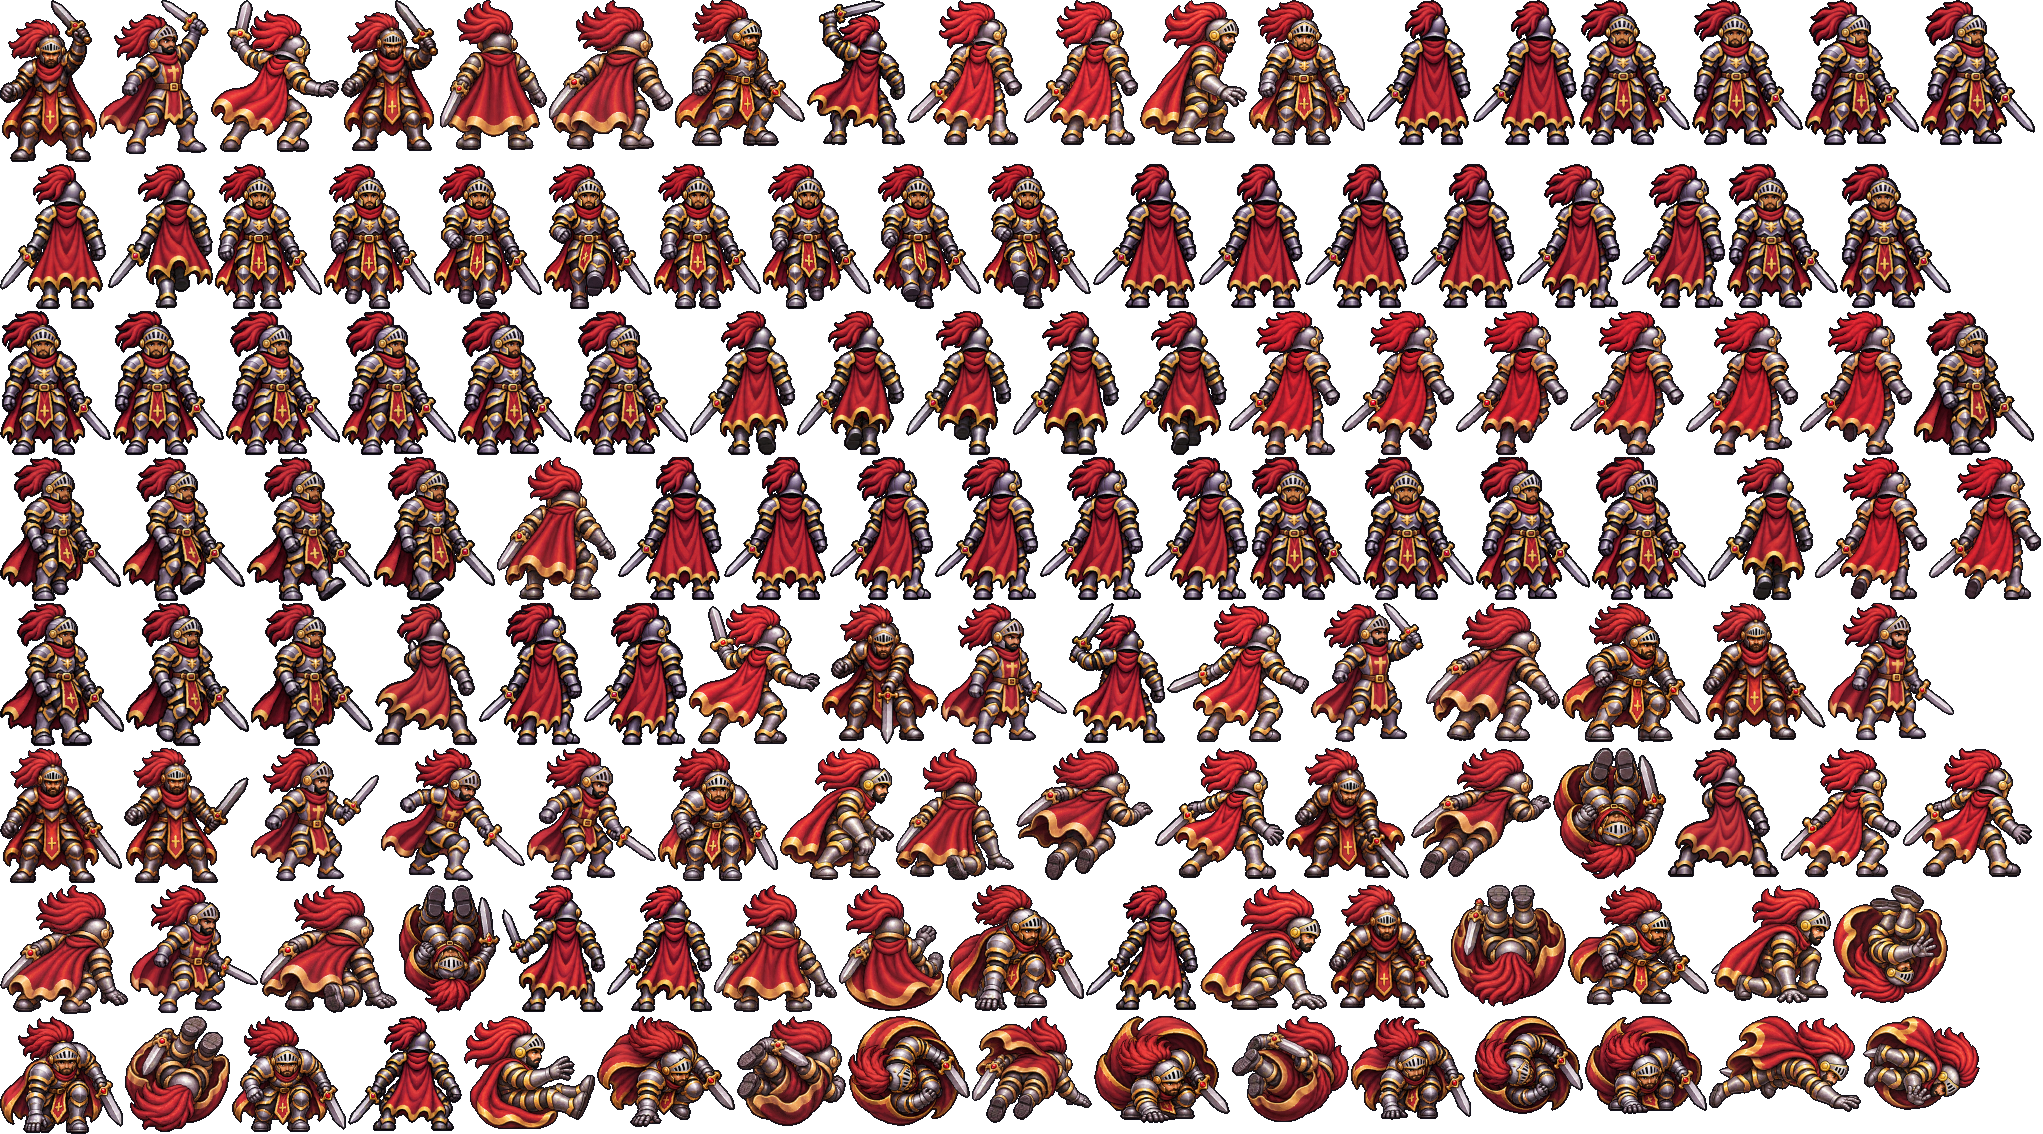
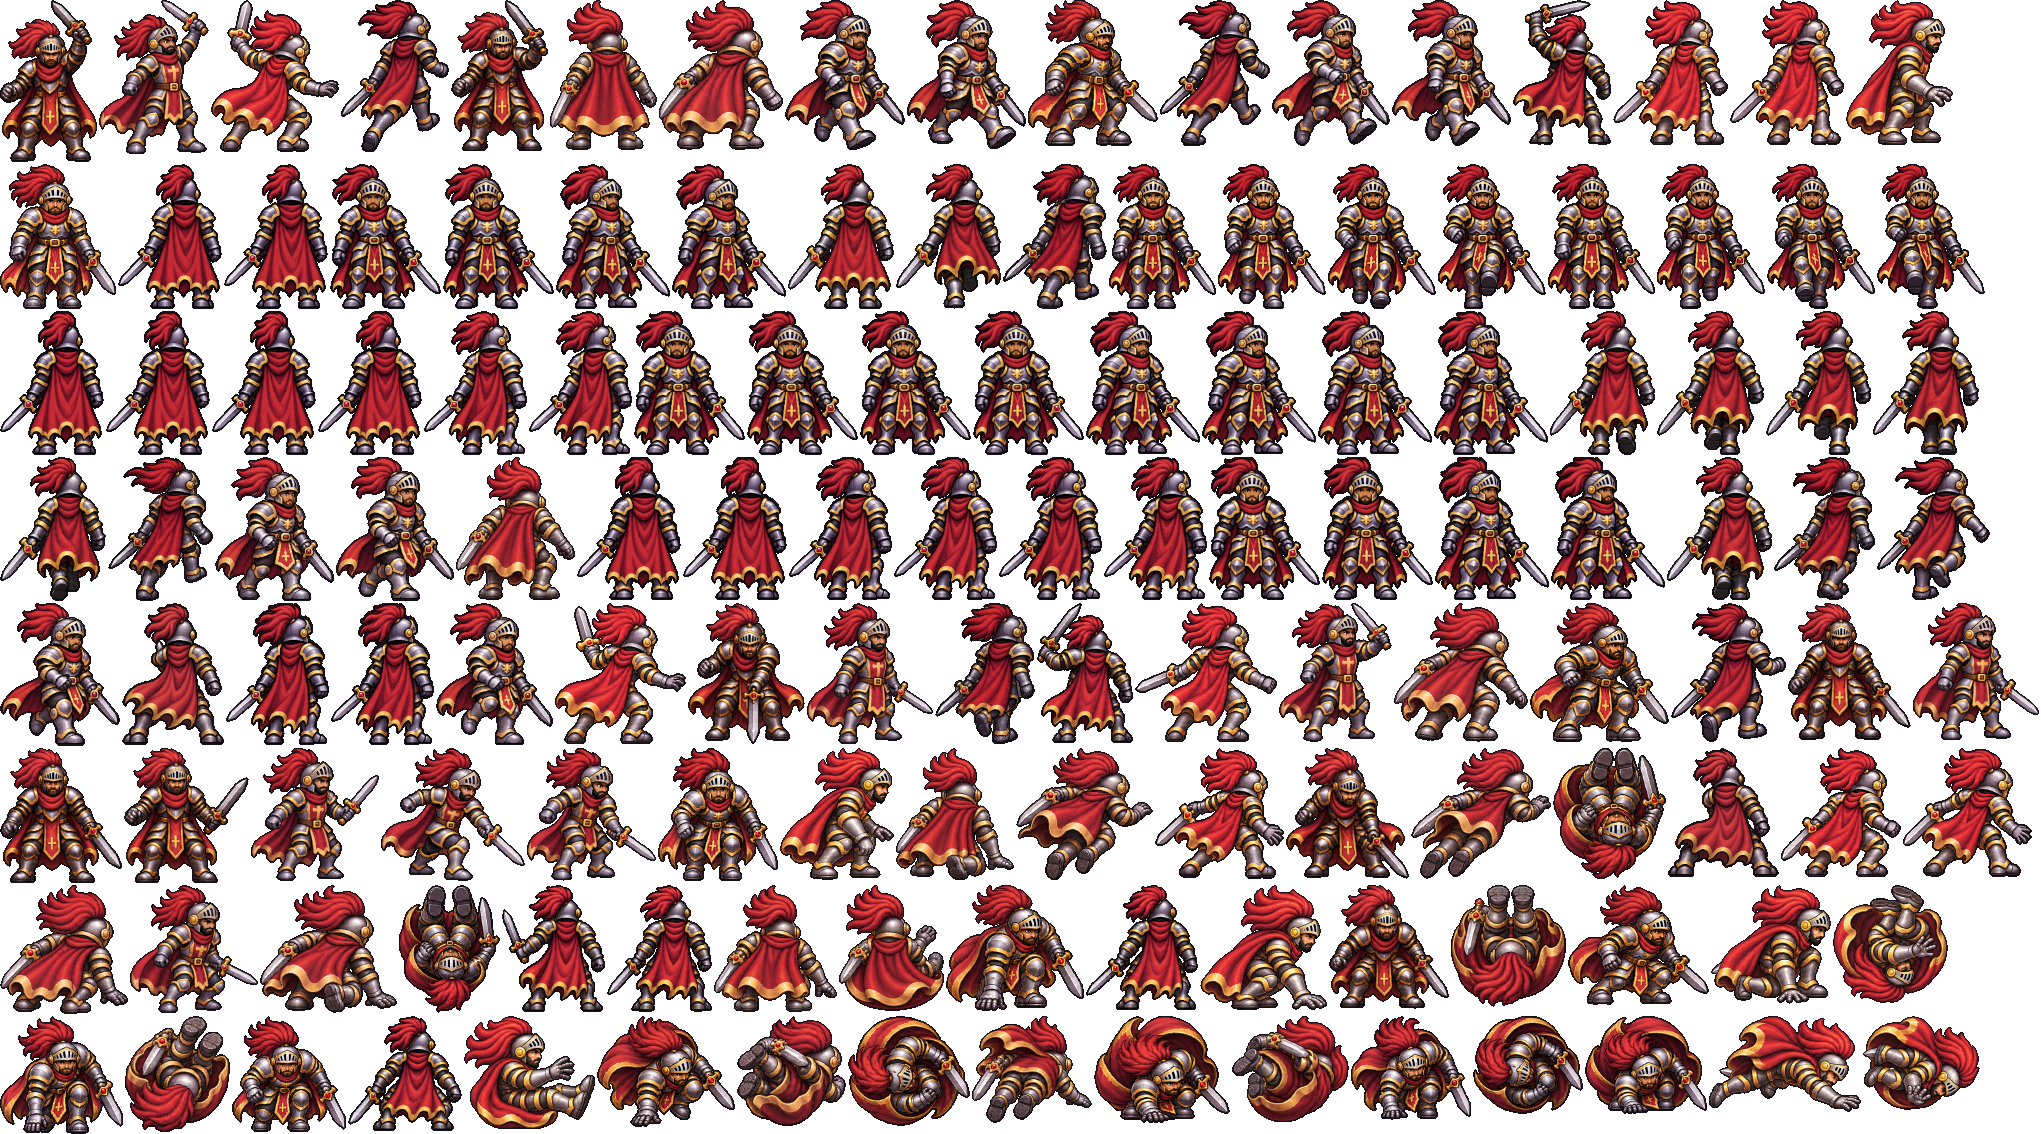
Demo 0.1.6: heroes walk properly on diagonals
Claude-Session: https://claude.ai/code/session_01GdUtVyN9RJChkwtqMYVHJY

diff --git a/index.html b/index.html
@@ -104,6 +104,13 @@ footer{border-top:1px solid var(--line);text-align:center;color:var(--dim);font-
   <div class="notes">
 <!-- PATCHES: newest first. Plain language; say what changed and, when it came from feedback, that it did. -->
     <article class="patch">
+      <h3>Update 0.1.6</h3>
+      <p class="when">November 16, 2026</p>
+      <ul>
+        <li>The heroes walk properly on diagonals. Walking at an angle used to look more like skipping. Now the Knight, the Mage and the Rogue take real steps in every direction.</li>
+      </ul>
+    </article>
+    <article class="patch">
       <h3>Update 0.1.5</h3>
       <p class="when">November 16, 2026</p>
       <ul>
